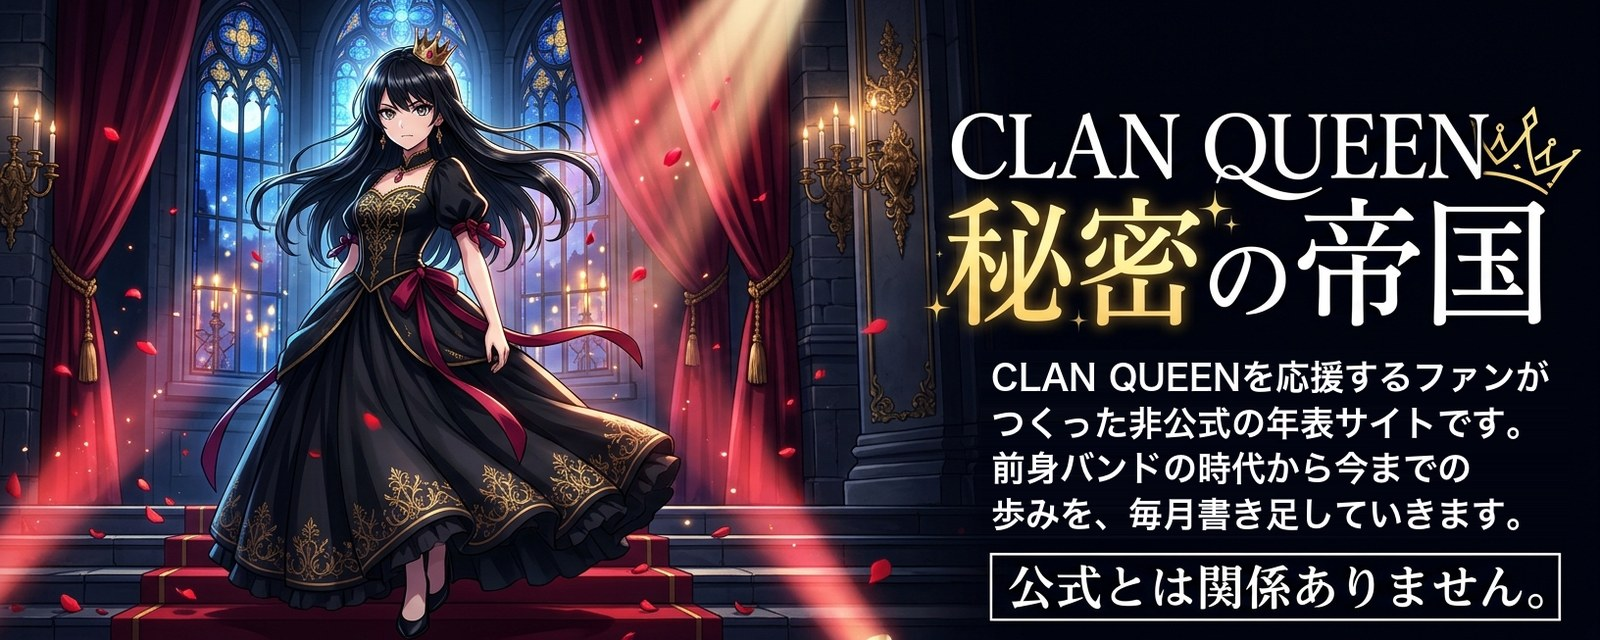
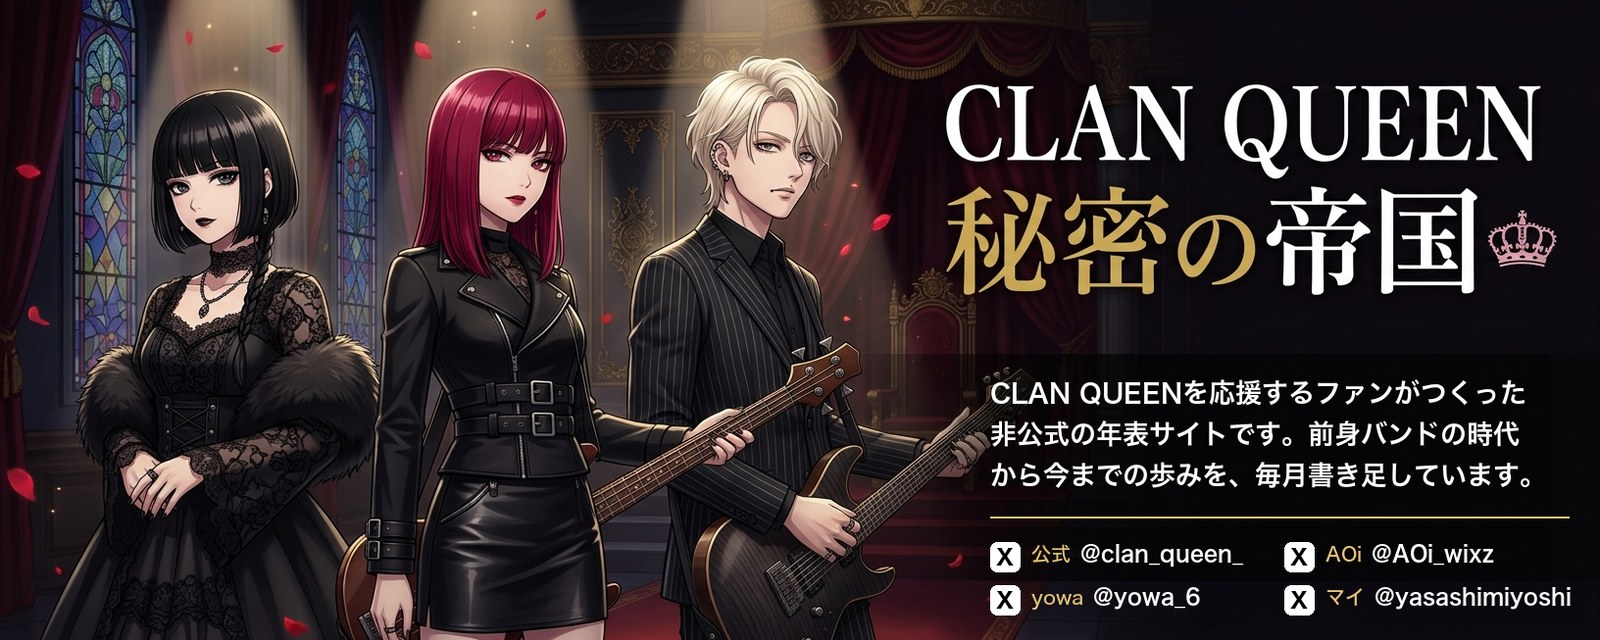
ヘッダーを 3 人のファンアートに作り直し、右下に X アカウント。サイドバーにメンバーの X

diff --git a/docs/about.html b/docs/about.html
@@ -130,7 +130,7 @@ footer{background:var(--hd);color:#c8cde0;font-size:13px;text-align:center;paddi
 <p>「セットリスト」ボタンの中身は、setlist.fm にファンが投稿した記録をもとに、曲名を日本語に直したものです。公式発表ではないため、実際と違う場合があります。曲名が確認できなかったものは、setlist.fm の表記のままにしています。</p>
 <h2>やらないこと</h2><ul>
 <li>広告・アフィリエイトは載せません</li>
-<li>歌詞の引用、公式の写真・イラスト・ロゴの複製・転載はしません。画像は、YouTube の公式動画のサムネイル（YouTube から直接表示し、動画にリンク）と、Gemini でつくったオリジナルのヘッダーイラスト（メンバーご本人や公式ロゴは描いていません）だけです。権利は各権利者に帰属します。削除のご依頼があればすぐに対応します</li>
+<li>歌詞の引用、公式の写真・イラスト・ロゴの複製・転載はしません。画像は、YouTube の公式動画のサムネイル（YouTube から直接表示し、動画にリンク）と、メンバーをイメージして Gemini でつくったファンアートのヘッダー（公式の写真・ロゴは使っていません）だけです。権利は各権利者に帰属します。削除のご依頼があればすぐに対応します</li>
 <li>メンバーの私生活に関することや、うわさ話は書きません</li></ul>
 <h2>見に来てくださって、ありがとうございます</h2>
 <p>音も映像もビジュアルも自分たちの手で形にしてきた AOi さん・yowa さん・マイさん、作品づくりに関わる作り手の皆さん、そして応援を続けるファンの皆さんに、心から感謝しています。この帝国が、あなたの「好き」をもう一度たしかめる場所になればうれしいです。</p>
@@ -155,6 +155,9 @@ footer{background:var(--hd);color:#c8cde0;font-size:13px;text-align:center;paddi
 <li><a href="https://www.clanqueen.jp/" rel="noopener" target="_blank">CLAN QUEEN 公式サイト</a></li>
 <li><a href="https://www.youtube.com/@CLAN_QUEEN" rel="noopener" target="_blank">公式 YouTube チャンネル</a></li>
 <li><a href="https://x.com/clan_queen_" rel="noopener" target="_blank">公式 X（@clan_queen_）</a></li>
+<li><a href="https://x.com/AOi_wixz" rel="noopener" target="_blank">AOi さんの X（@AOi_wixz）</a></li>
+<li><a href="https://x.com/yowa_6" rel="noopener" target="_blank">yowa さんの X（@yowa_6）</a></li>
+<li><a href="https://x.com/yasashimiyoshi" rel="noopener" target="_blank">マイさんの X（@yasashimiyoshi）</a></li>
 <li><a href="https://www.instagram.com/clanqueen/" rel="noopener" target="_blank">公式 Instagram</a></li>
 <li><a href="https://www.tiktok.com/@clan_queen_" rel="noopener" target="_blank">公式 TikTok</a></li>
 <li><a href="https://clanqueen-hfc.com" rel="noopener" target="_blank">ファンクラブ Hell Fire Club</a></li></ul>
@@ -164,5 +167,5 @@ footer{background:var(--hd);color:#c8cde0;font-size:13px;text-align:center;paddi
 </aside></div>
 <footer>CLAN QUEEN 秘密の帝国 は、CLAN QUEEN を応援するファンによる<b>非公式</b>のファンサイトです。CLAN QUEEN・メンバーご本人・所属事務所・レーベルとは関係ありません。<br>
 掲載情報は公開されている報道・公式発表をもとにしています。最新・正確な情報は<a href="https://www.clanqueen.jp/" target="_blank" rel="noopener">公式サイト</a>でご確認ください。<br>
-公式の画像の複製・転載はしていません（トップのヘッダーは AI でつくったオリジナルのイラストです）。動画のサムネイルは YouTube から直接表示し、動画にリンクしています（権利は各権利者に帰属します）。 ／ <a href="about.html">この帝国について・プライバシー</a><br>最終更新: 2026-10-23</footer>
+公式の画像の複製・転載はしていません（トップのヘッダーは、メンバーをイメージして AI でつくったファンアートです）。動画のサムネイルは YouTube から直接表示し、動画にリンクしています（権利は各権利者に帰属します）。 ／ <a href="about.html">この帝国について・プライバシー</a><br>最終更新: 2026-10-23</footer>
 </body></html>

diff --git a/docs/era/empire.html b/docs/era/empire.html
@@ -167,6 +167,9 @@ footer{background:var(--hd);color:#c8cde0;font-size:13px;text-align:center;paddi
 <li><a href="https://www.clanqueen.jp/" rel="noopener" target="_blank">CLAN QUEEN 公式サイト</a></li>
 <li><a href="https://www.youtube.com/@CLAN_QUEEN" rel="noopener" target="_blank">公式 YouTube チャンネル</a></li>
 <li><a href="https://x.com/clan_queen_" rel="noopener" target="_blank">公式 X（@clan_queen_）</a></li>
+<li><a href="https://x.com/AOi_wixz" rel="noopener" target="_blank">AOi さんの X（@AOi_wixz）</a></li>
+<li><a href="https://x.com/yowa_6" rel="noopener" target="_blank">yowa さんの X（@yowa_6）</a></li>
+<li><a href="https://x.com/yasashimiyoshi" rel="noopener" target="_blank">マイさんの X（@yasashimiyoshi）</a></li>
 <li><a href="https://www.instagram.com/clanqueen/" rel="noopener" target="_blank">公式 Instagram</a></li>
 <li><a href="https://www.tiktok.com/@clan_queen_" rel="noopener" target="_blank">公式 TikTok</a></li>
 <li><a href="https://clanqueen-hfc.com" rel="noopener" target="_blank">ファンクラブ Hell Fire Club</a></li></ul>
@@ -176,5 +179,5 @@ footer{background:var(--hd);color:#c8cde0;font-size:13px;text-align:center;paddi
 </aside></div>
 <footer>CLAN QUEEN 秘密の帝国 は、CLAN QUEEN を応援するファンによる<b>非公式</b>のファンサイトです。CLAN QUEEN・メンバーご本人・所属事務所・レーベルとは関係ありません。<br>
 掲載情報は公開されている報道・公式発表をもとにしています。最新・正確な情報は<a href="https://www.clanqueen.jp/" target="_blank" rel="noopener">公式サイト</a>でご確認ください。<br>
-公式の画像の複製・転載はしていません（トップのヘッダーは AI でつくったオリジナルのイラストです）。動画のサムネイルは YouTube から直接表示し、動画にリンクしています（権利は各権利者に帰属します）。 ／ <a href="../about.html">この帝国について・プライバシー</a><br>最終更新: 2026-10-23</footer>
+公式の画像の複製・転載はしていません（トップのヘッダーは、メンバーをイメージして AI でつくったファンアートです）。動画のサムネイルは YouTube から直接表示し、動画にリンクしています（権利は各権利者に帰属します）。 ／ <a href="../about.html">この帝国について・プライバシー</a><br>最終更新: 2026-10-23</footer>
 <script async src="https://platform.twitter.com/widgets.js" charset="utf-8"></script></body></html>

diff --git a/docs/era/ima.html b/docs/era/ima.html
@@ -155,6 +155,9 @@ footer{background:var(--hd);color:#c8cde0;font-size:13px;text-align:center;paddi
 <li><a href="https://www.clanqueen.jp/" rel="noopener" target="_blank">CLAN QUEEN 公式サイト</a></li>
 <li><a href="https://www.youtube.com/@CLAN_QUEEN" rel="noopener" target="_blank">公式 YouTube チャンネル</a></li>
 <li><a href="https://x.com/clan_queen_" rel="noopener" target="_blank">公式 X（@clan_queen_）</a></li>
+<li><a href="https://x.com/AOi_wixz" rel="noopener" target="_blank">AOi さんの X（@AOi_wixz）</a></li>
+<li><a href="https://x.com/yowa_6" rel="noopener" target="_blank">yowa さんの X（@yowa_6）</a></li>
+<li><a href="https://x.com/yasashimiyoshi" rel="noopener" target="_blank">マイさんの X（@yasashimiyoshi）</a></li>
 <li><a href="https://www.instagram.com/clanqueen/" rel="noopener" target="_blank">公式 Instagram</a></li>
 <li><a href="https://www.tiktok.com/@clan_queen_" rel="noopener" target="_blank">公式 TikTok</a></li>
 <li><a href="https://clanqueen-hfc.com" rel="noopener" target="_blank">ファンクラブ Hell Fire Club</a></li></ul>
@@ -164,5 +167,5 @@ footer{background:var(--hd);color:#c8cde0;font-size:13px;text-align:center;paddi
 </aside></div>
 <footer>CLAN QUEEN 秘密の帝国 は、CLAN QUEEN を応援するファンによる<b>非公式</b>のファンサイトです。CLAN QUEEN・メンバーご本人・所属事務所・レーベルとは関係ありません。<br>
 掲載情報は公開されている報道・公式発表をもとにしています。最新・正確な情報は<a href="https://www.clanqueen.jp/" target="_blank" rel="noopener">公式サイト</a>でご確認ください。<br>
-公式の画像の複製・転載はしていません（トップのヘッダーは AI でつくったオリジナルのイラストです）。動画のサムネイルは YouTube から直接表示し、動画にリンクしています（権利は各権利者に帰属します）。 ／ <a href="../about.html">この帝国について・プライバシー</a><br>最終更新: 2026-10-23</footer>
+公式の画像の複製・転載はしていません（トップのヘッダーは、メンバーをイメージして AI でつくったファンアートです）。動画のサムネイルは YouTube から直接表示し、動画にリンクしています（権利は各権利者に帰属します）。 ／ <a href="../about.html">この帝国について・プライバシー</a><br>最終更新: 2026-10-23</footer>
 <script async src="https://platform.twitter.com/widgets.js" charset="utf-8"></script></body></html>

diff --git a/docs/era/toys.html b/docs/era/toys.html
@@ -186,6 +186,9 @@ footer{background:var(--hd);color:#c8cde0;font-size:13px;text-align:center;paddi
 <li><a href="https://www.clanqueen.jp/" rel="noopener" target="_blank">CLAN QUEEN 公式サイト</a></li>
 <li><a href="https://www.youtube.com/@CLAN_QUEEN" rel="noopener" target="_blank">公式 YouTube チャンネル</a></li>
 <li><a href="https://x.com/clan_queen_" rel="noopener" target="_blank">公式 X（@clan_queen_）</a></li>
+<li><a href="https://x.com/AOi_wixz" rel="noopener" target="_blank">AOi さんの X（@AOi_wixz）</a></li>
+<li><a href="https://x.com/yowa_6" rel="noopener" target="_blank">yowa さんの X（@yowa_6）</a></li>
+<li><a href="https://x.com/yasashimiyoshi" rel="noopener" target="_blank">マイさんの X（@yasashimiyoshi）</a></li>
 <li><a href="https://www.instagram.com/clanqueen/" rel="noopener" target="_blank">公式 Instagram</a></li>
 <li><a href="https://www.tiktok.com/@clan_queen_" rel="noopener" target="_blank">公式 TikTok</a></li>
 <li><a href="https://clanqueen-hfc.com" rel="noopener" target="_blank">ファンクラブ Hell Fire Club</a></li></ul>
@@ -195,5 +198,5 @@ footer{background:var(--hd);color:#c8cde0;font-size:13px;text-align:center;paddi
 </aside></div>
 <footer>CLAN QUEEN 秘密の帝国 は、CLAN QUEEN を応援するファンによる<b>非公式</b>のファンサイトです。CLAN QUEEN・メンバーご本人・所属事務所・レーベルとは関係ありません。<br>
 掲載情報は公開されている報道・公式発表をもとにしています。最新・正確な情報は<a href="https://www.clanqueen.jp/" target="_blank" rel="noopener">公式サイト</a>でご確認ください。<br>
-公式の画像の複製・転載はしていません（トップのヘッダーは AI でつくったオリジナルのイラストです）。動画のサムネイルは YouTube から直接表示し、動画にリンクしています（権利は各権利者に帰属します）。 ／ <a href="../about.html">この帝国について・プライバシー</a><br>最終更新: 2026-10-23</footer>
+公式の画像の複製・転載はしていません（トップのヘッダーは、メンバーをイメージして AI でつくったファンアートです）。動画のサムネイルは YouTube から直接表示し、動画にリンクしています（権利は各権利者に帰属します）。 ／ <a href="../about.html">この帝国について・プライバシー</a><br>最終更新: 2026-10-23</footer>
 <script async src="https://platform.twitter.com/widgets.js" charset="utf-8"></script></body></html>

diff --git a/docs/year/2024.html b/docs/year/2024.html
@@ -148,6 +148,9 @@ footer{background:var(--hd);color:#c8cde0;font-size:13px;text-align:center;paddi
 <li><a href="https://www.clanqueen.jp/" rel="noopener" target="_blank">CLAN QUEEN 公式サイト</a></li>
 <li><a href="https://www.youtube.com/@CLAN_QUEEN" rel="noopener" target="_blank">公式 YouTube チャンネル</a></li>
 <li><a href="https://x.com/clan_queen_" rel="noopener" target="_blank">公式 X（@clan_queen_）</a></li>
+<li><a href="https://x.com/AOi_wixz" rel="noopener" target="_blank">AOi さんの X（@AOi_wixz）</a></li>
+<li><a href="https://x.com/yowa_6" rel="noopener" target="_blank">yowa さんの X（@yowa_6）</a></li>
+<li><a href="https://x.com/yasashimiyoshi" rel="noopener" target="_blank">マイさんの X（@yasashimiyoshi）</a></li>
 <li><a href="https://www.instagram.com/clanqueen/" rel="noopener" target="_blank">公式 Instagram</a></li>
 <li><a href="https://www.tiktok.com/@clan_queen_" rel="noopener" target="_blank">公式 TikTok</a></li>
 <li><a href="https://clanqueen-hfc.com" rel="noopener" target="_blank">ファンクラブ Hell Fire Club</a></li></ul>
@@ -157,5 +160,5 @@ footer{background:var(--hd);color:#c8cde0;font-size:13px;text-align:center;paddi
 </aside></div>
 <footer>CLAN QUEEN 秘密の帝国 は、CLAN QUEEN を応援するファンによる<b>非公式</b>のファンサイトです。CLAN QUEEN・メンバーご本人・所属事務所・レーベルとは関係ありません。<br>
 掲載情報は公開されている報道・公式発表をもとにしています。最新・正確な情報は<a href="https://www.clanqueen.jp/" target="_blank" rel="noopener">公式サイト</a>でご確認ください。<br>
-公式の画像の複製・転載はしていません（トップのヘッダーは AI でつくったオリジナルのイラストです）。動画のサムネイルは YouTube から直接表示し、動画にリンクしています（権利は各権利者に帰属します）。 ／ <a href="../about.html">この帝国について・プライバシー</a><br>最終更新: 2026-10-23</footer>
+公式の画像の複製・転載はしていません（トップのヘッダーは、メンバーをイメージして AI でつくったファンアートです）。動画のサムネイルは YouTube から直接表示し、動画にリンクしています（権利は各権利者に帰属します）。 ／ <a href="../about.html">この帝国について・プライバシー</a><br>最終更新: 2026-10-23</footer>
 <script async src="https://platform.twitter.com/widgets.js" charset="utf-8"></script></body></html>

diff --git a/docs/year/2025.html b/docs/year/2025.html
@@ -173,6 +173,9 @@ footer{background:var(--hd);color:#c8cde0;font-size:13px;text-align:center;paddi
 <li><a href="https://www.clanqueen.jp/" rel="noopener" target="_blank">CLAN QUEEN 公式サイト</a></li>
 <li><a href="https://www.youtube.com/@CLAN_QUEEN" rel="noopener" target="_blank">公式 YouTube チャンネル</a></li>
 <li><a href="https://x.com/clan_queen_" rel="noopener" target="_blank">公式 X（@clan_queen_）</a></li>
+<li><a href="https://x.com/AOi_wixz" rel="noopener" target="_blank">AOi さんの X（@AOi_wixz）</a></li>
+<li><a href="https://x.com/yowa_6" rel="noopener" target="_blank">yowa さんの X（@yowa_6）</a></li>
+<li><a href="https://x.com/yasashimiyoshi" rel="noopener" target="_blank">マイさんの X（@yasashimiyoshi）</a></li>
 <li><a href="https://www.instagram.com/clanqueen/" rel="noopener" target="_blank">公式 Instagram</a></li>
 <li><a href="https://www.tiktok.com/@clan_queen_" rel="noopener" target="_blank">公式 TikTok</a></li>
 <li><a href="https://clanqueen-hfc.com" rel="noopener" target="_blank">ファンクラブ Hell Fire Club</a></li></ul>
@@ -182,5 +185,5 @@ footer{background:var(--hd);color:#c8cde0;font-size:13px;text-align:center;paddi
 </aside></div>
 <footer>CLAN QUEEN 秘密の帝国 は、CLAN QUEEN を応援するファンによる<b>非公式</b>のファンサイトです。CLAN QUEEN・メンバーご本人・所属事務所・レーベルとは関係ありません。<br>
 掲載情報は公開されている報道・公式発表をもとにしています。最新・正確な情報は<a href="https://www.clanqueen.jp/" target="_blank" rel="noopener">公式サイト</a>でご確認ください。<br>
-公式の画像の複製・転載はしていません（トップのヘッダーは AI でつくったオリジナルのイラストです）。動画のサムネイルは YouTube から直接表示し、動画にリンクしています（権利は各権利者に帰属します）。 ／ <a href="../about.html">この帝国について・プライバシー</a><br>最終更新: 2026-10-23</footer>
+公式の画像の複製・転載はしていません（トップのヘッダーは、メンバーをイメージして AI でつくったファンアートです）。動画のサムネイルは YouTube から直接表示し、動画にリンクしています（権利は各権利者に帰属します）。 ／ <a href="../about.html">この帝国について・プライバシー</a><br>最終更新: 2026-10-23</footer>
 <script async src="https://platform.twitter.com/widgets.js" charset="utf-8"></script></body></html>

diff --git a/docs/year/2026.html b/docs/year/2026.html
@@ -181,6 +181,9 @@ footer{background:var(--hd);color:#c8cde0;font-size:13px;text-align:center;paddi
 <li><a href="https://www.clanqueen.jp/" rel="noopener" target="_blank">CLAN QUEEN 公式サイト</a></li>
 <li><a href="https://www.youtube.com/@CLAN_QUEEN" rel="noopener" target="_blank">公式 YouTube チャンネル</a></li>
 <li><a href="https://x.com/clan_queen_" rel="noopener" target="_blank">公式 X（@clan_queen_）</a></li>
+<li><a href="https://x.com/AOi_wixz" rel="noopener" target="_blank">AOi さんの X（@AOi_wixz）</a></li>
+<li><a href="https://x.com/yowa_6" rel="noopener" target="_blank">yowa さんの X（@yowa_6）</a></li>
+<li><a href="https://x.com/yasashimiyoshi" rel="noopener" target="_blank">マイさんの X（@yasashimiyoshi）</a></li>
 <li><a href="https://www.instagram.com/clanqueen/" rel="noopener" target="_blank">公式 Instagram</a></li>
 <li><a href="https://www.tiktok.com/@clan_queen_" rel="noopener" target="_blank">公式 TikTok</a></li>
 <li><a href="https://clanqueen-hfc.com" rel="noopener" target="_blank">ファンクラブ Hell Fire Club</a></li></ul>
@@ -190,5 +193,5 @@ footer{background:var(--hd);color:#c8cde0;font-size:13px;text-align:center;paddi
 </aside></div>
 <footer>CLAN QUEEN 秘密の帝国 は、CLAN QUEEN を応援するファンによる<b>非公式</b>のファンサイトです。CLAN QUEEN・メンバーご本人・所属事務所・レーベルとは関係ありません。<br>
 掲載情報は公開されている報道・公式発表をもとにしています。最新・正確な情報は<a href="https://www.clanqueen.jp/" target="_blank" rel="noopener">公式サイト</a>でご確認ください。<br>
-公式の画像の複製・転載はしていません（トップのヘッダーは AI でつくったオリジナルのイラストです）。動画のサムネイルは YouTube から直接表示し、動画にリンクしています（権利は各権利者に帰属します）。 ／ <a href="../about.html">この帝国について・プライバシー</a><br>最終更新: 2026-10-23</footer>
+公式の画像の複製・転載はしていません（トップのヘッダーは、メンバーをイメージして AI でつくったファンアートです）。動画のサムネイルは YouTube から直接表示し、動画にリンクしています（権利は各権利者に帰属します）。 ／ <a href="../about.html">この帝国について・プライバシー</a><br>最終更新: 2026-10-23</footer>
 <script async src="https://platform.twitter.com/widgets.js" charset="utf-8"></script></body></html>

diff --git a/docs/index.html b/docs/index.html
@@ -156,6 +156,9 @@ el.innerHTML=it.map(function(e){var d=new Date(e.date+'T00:00:00');return '<li><
 <li><a href="https://www.clanqueen.jp/" rel="noopener" target="_blank">CLAN QUEEN 公式サイト</a></li>
 <li><a href="https://www.youtube.com/@CLAN_QUEEN" rel="noopener" target="_blank">公式 YouTube チャンネル</a></li>
 <li><a href="https://x.com/clan_queen_" rel="noopener" target="_blank">公式 X（@clan_queen_）</a></li>
+<li><a href="https://x.com/AOi_wixz" rel="noopener" target="_blank">AOi さんの X（@AOi_wixz）</a></li>
+<li><a href="https://x.com/yowa_6" rel="noopener" target="_blank">yowa さんの X（@yowa_6）</a></li>
+<li><a href="https://x.com/yasashimiyoshi" rel="noopener" target="_blank">マイさんの X（@yasashimiyoshi）</a></li>
 <li><a href="https://www.instagram.com/clanqueen/" rel="noopener" target="_blank">公式 Instagram</a></li>
 <li><a href="https://www.tiktok.com/@clan_queen_" rel="noopener" target="_blank">公式 TikTok</a></li>
 <li><a href="https://clanqueen-hfc.com" rel="noopener" target="_blank">ファンクラブ Hell Fire Club</a></li></ul>
@@ -165,5 +168,5 @@ el.innerHTML=it.map(function(e){var d=new Date(e.date+'T00:00:00');return '<li><
 </aside></div>
 <footer>CLAN QUEEN 秘密の帝国 は、CLAN QUEEN を応援するファンによる<b>非公式</b>のファンサイトです。CLAN QUEEN・メンバーご本人・所属事務所・レーベルとは関係ありません。<br>
 掲載情報は公開されている報道・公式発表をもとにしています。最新・正確な情報は<a href="https://www.clanqueen.jp/" target="_blank" rel="noopener">公式サイト</a>でご確認ください。<br>
-公式の画像の複製・転載はしていません（トップのヘッダーは AI でつくったオリジナルのイラストです）。動画のサムネイルは YouTube から直接表示し、動画にリンクしています（権利は各権利者に帰属します）。 ／ <a href="about.html">この帝国について・プライバシー</a><br>最終更新: 2026-10-23</footer>
+公式の画像の複製・転載はしていません（トップのヘッダーは、メンバーをイメージして AI でつくったファンアートです）。動画のサムネイルは YouTube から直接表示し、動画にリンクしています（権利は各権利者に帰属します）。 ／ <a href="about.html">この帝国について・プライバシー</a><br>最終更新: 2026-10-23</footer>
 <script async src="https://platform.twitter.com/widgets.js" charset="utf-8"></script></body></html>

diff --git a/docs/live.html b/docs/live.html
@@ -218,6 +218,9 @@ footer{background:var(--hd);color:#c8cde0;font-size:13px;text-align:center;paddi
 <li><a href="https://www.clanqueen.jp/" rel="noopener" target="_blank">CLAN QUEEN 公式サイト</a></li>
 <li><a href="https://www.youtube.com/@CLAN_QUEEN" rel="noopener" target="_blank">公式 YouTube チャンネル</a></li>
 <li><a href="https://x.com/clan_queen_" rel="noopener" target="_blank">公式 X（@clan_queen_）</a></li>
+<li><a href="https://x.com/AOi_wixz" rel="noopener" target="_blank">AOi さんの X（@AOi_wixz）</a></li>
+<li><a href="https://x.com/yowa_6" rel="noopener" target="_blank">yowa さんの X（@yowa_6）</a></li>
+<li><a href="https://x.com/yasashimiyoshi" rel="noopener" target="_blank">マイさんの X（@yasashimiyoshi）</a></li>
 <li><a href="https://www.instagram.com/clanqueen/" rel="noopener" target="_blank">公式 Instagram</a></li>
 <li><a href="https://www.tiktok.com/@clan_queen_" rel="noopener" target="_blank">公式 TikTok</a></li>
 <li><a href="https://clanqueen-hfc.com" rel="noopener" target="_blank">ファンクラブ Hell Fire Club</a></li></ul>
@@ -227,5 +230,5 @@ footer{background:var(--hd);color:#c8cde0;font-size:13px;text-align:center;paddi
 </aside></div>
 <footer>CLAN QUEEN 秘密の帝国 は、CLAN QUEEN を応援するファンによる<b>非公式</b>のファンサイトです。CLAN QUEEN・メンバーご本人・所属事務所・レーベルとは関係ありません。<br>
 掲載情報は公開されている報道・公式発表をもとにしています。最新・正確な情報は<a href="https://www.clanqueen.jp/" target="_blank" rel="noopener">公式サイト</a>でご確認ください。<br>
-公式の画像の複製・転載はしていません（トップのヘッダーは AI でつくったオリジナルのイラストです）。動画のサムネイルは YouTube から直接表示し、動画にリンクしています（権利は各権利者に帰属します）。 ／ <a href="about.html">この帝国について・プライバシー</a><br>最終更新: 2026-10-23</footer>
+公式の画像の複製・転載はしていません（トップのヘッダーは、メンバーをイメージして AI でつくったファンアートです）。動画のサムネイルは YouTube から直接表示し、動画にリンクしています（権利は各権利者に帰属します）。 ／ <a href="about.html">この帝国について・プライバシー</a><br>最終更新: 2026-10-23</footer>
 <script async src="https://platform.twitter.com/widgets.js" charset="utf-8"></script></body></html>

diff --git a/docs/magazines.html b/docs/magazines.html
@@ -143,6 +143,9 @@ function go(){window.twttr&&twttr.widgets?twttr.widgets.load(d):setTimeout(go,30
 <li><a href="https://www.clanqueen.jp/" rel="noopener" target="_blank">CLAN QUEEN 公式サイト</a></li>
 <li><a href="https://www.youtube.com/@CLAN_QUEEN" rel="noopener" target="_blank">公式 YouTube チャンネル</a></li>
 <li><a href="https://x.com/clan_queen_" rel="noopener" target="_blank">公式 X（@clan_queen_）</a></li>
+<li><a href="https://x.com/AOi_wixz" rel="noopener" target="_blank">AOi さんの X（@AOi_wixz）</a></li>
+<li><a href="https://x.com/yowa_6" rel="noopener" target="_blank">yowa さんの X（@yowa_6）</a></li>
+<li><a href="https://x.com/yasashimiyoshi" rel="noopener" target="_blank">マイさんの X（@yasashimiyoshi）</a></li>
 <li><a href="https://www.instagram.com/clanqueen/" rel="noopener" target="_blank">公式 Instagram</a></li>
 <li><a href="https://www.tiktok.com/@clan_queen_" rel="noopener" target="_blank">公式 TikTok</a></li>
 <li><a href="https://clanqueen-hfc.com" rel="noopener" target="_blank">ファンクラブ Hell Fire Club</a></li></ul>
@@ -152,5 +155,5 @@ function go(){window.twttr&&twttr.widgets?twttr.widgets.load(d):setTimeout(go,30
 </aside></div>
 <footer>CLAN QUEEN 秘密の帝国 は、CLAN QUEEN を応援するファンによる<b>非公式</b>のファンサイトです。CLAN QUEEN・メンバーご本人・所属事務所・レーベルとは関係ありません。<br>
 掲載情報は公開されている報道・公式発表をもとにしています。最新・正確な情報は<a href="https://www.clanqueen.jp/" target="_blank" rel="noopener">公式サイト</a>でご確認ください。<br>
-公式の画像の複製・転載はしていません（トップのヘッダーは AI でつくったオリジナルのイラストです）。動画のサムネイルは YouTube から直接表示し、動画にリンクしています（権利は各権利者に帰属します）。 ／ <a href="about.html">この帝国について・プライバシー</a><br>最終更新: 2026-10-23</footer>
+公式の画像の複製・転載はしていません（トップのヘッダーは、メンバーをイメージして AI でつくったファンアートです）。動画のサムネイルは YouTube から直接表示し、動画にリンクしています（権利は各権利者に帰属します）。 ／ <a href="about.html">この帝国について・プライバシー</a><br>最終更新: 2026-10-23</footer>
 <script async src="https://platform.twitter.com/widgets.js" charset="utf-8"></script></body></html>

diff --git a/docs/release.html b/docs/release.html
@@ -180,6 +180,9 @@ footer{background:var(--hd);color:#c8cde0;font-size:13px;text-align:center;paddi
 <li><a href="https://www.clanqueen.jp/" rel="noopener" target="_blank">CLAN QUEEN 公式サイト</a></li>
 <li><a href="https://www.youtube.com/@CLAN_QUEEN" rel="noopener" target="_blank">公式 YouTube チャンネル</a></li>
 <li><a href="https://x.com/clan_queen_" rel="noopener" target="_blank">公式 X（@clan_queen_）</a></li>
+<li><a href="https://x.com/AOi_wixz" rel="noopener" target="_blank">AOi さんの X（@AOi_wixz）</a></li>
+<li><a href="https://x.com/yowa_6" rel="noopener" target="_blank">yowa さんの X（@yowa_6）</a></li>
+<li><a href="https://x.com/yasashimiyoshi" rel="noopener" target="_blank">マイさんの X（@yasashimiyoshi）</a></li>
 <li><a href="https://www.instagram.com/clanqueen/" rel="noopener" target="_blank">公式 Instagram</a></li>
 <li><a href="https://www.tiktok.com/@clan_queen_" rel="noopener" target="_blank">公式 TikTok</a></li>
 <li><a href="https://clanqueen-hfc.com" rel="noopener" target="_blank">ファンクラブ Hell Fire Club</a></li></ul>
@@ -189,5 +192,5 @@ footer{background:var(--hd);color:#c8cde0;font-size:13px;text-align:center;paddi
 </aside></div>
 <footer>CLAN QUEEN 秘密の帝国 は、CLAN QUEEN を応援するファンによる<b>非公式</b>のファンサイトです。CLAN QUEEN・メンバーご本人・所属事務所・レーベルとは関係ありません。<br>
 掲載情報は公開されている報道・公式発表をもとにしています。最新・正確な情報は<a href="https://www.clanqueen.jp/" target="_blank" rel="noopener">公式サイト</a>でご確認ください。<br>
-公式の画像の複製・転載はしていません（トップのヘッダーは AI でつくったオリジナルのイラストです）。動画のサムネイルは YouTube から直接表示し、動画にリンクしています（権利は各権利者に帰属します）。 ／ <a href="about.html">この帝国について・プライバシー</a><br>最終更新: 2026-10-23</footer>
+公式の画像の複製・転載はしていません（トップのヘッダーは、メンバーをイメージして AI でつくったファンアートです）。動画のサムネイルは YouTube から直接表示し、動画にリンクしています（権利は各権利者に帰属します）。 ／ <a href="about.html">この帝国について・プライバシー</a><br>最終更新: 2026-10-23</footer>
 <script async src="https://platform.twitter.com/widgets.js" charset="utf-8"></script></body></html>

diff --git a/docs/tieup.html b/docs/tieup.html
@@ -147,6 +147,9 @@ footer{background:var(--hd);color:#c8cde0;font-size:13px;text-align:center;paddi
 <li><a href="https://www.clanqueen.jp/" rel="noopener" target="_blank">CLAN QUEEN 公式サイト</a></li>
 <li><a href="https://www.youtube.com/@CLAN_QUEEN" rel="noopener" target="_blank">公式 YouTube チャンネル</a></li>
 <li><a href="https://x.com/clan_queen_" rel="noopener" target="_blank">公式 X（@clan_queen_）</a></li>
+<li><a href="https://x.com/AOi_wixz" rel="noopener" target="_blank">AOi さんの X（@AOi_wixz）</a></li>
+<li><a href="https://x.com/yowa_6" rel="noopener" target="_blank">yowa さんの X（@yowa_6）</a></li>
+<li><a href="https://x.com/yasashimiyoshi" rel="noopener" target="_blank">マイさんの X（@yasashimiyoshi）</a></li>
 <li><a href="https://www.instagram.com/clanqueen/" rel="noopener" target="_blank">公式 Instagram</a></li>
 <li><a href="https://www.tiktok.com/@clan_queen_" rel="noopener" target="_blank">公式 TikTok</a></li>
 <li><a href="https://clanqueen-hfc.com" rel="noopener" target="_blank">ファンクラブ Hell Fire Club</a></li></ul>
@@ -156,5 +159,5 @@ footer{background:var(--hd);color:#c8cde0;font-size:13px;text-align:center;paddi
 </aside></div>
 <footer>CLAN QUEEN 秘密の帝国 は、CLAN QUEEN を応援するファンによる<b>非公式</b>のファンサイトです。CLAN QUEEN・メンバーご本人・所属事務所・レーベルとは関係ありません。<br>
 掲載情報は公開されている報道・公式発表をもとにしています。最新・正確な情報は<a href="https://www.clanqueen.jp/" target="_blank" rel="noopener">公式サイト</a>でご確認ください。<br>
-公式の画像の複製・転載はしていません（トップのヘッダーは AI でつくったオリジナルのイラストです）。動画のサムネイルは YouTube から直接表示し、動画にリンクしています（権利は各権利者に帰属します）。 ／ <a href="about.html">この帝国について・プライバシー</a><br>最終更新: 2026-10-23</footer>
+公式の画像の複製・転載はしていません（トップのヘッダーは、メンバーをイメージして AI でつくったファンアートです）。動画のサムネイルは YouTube から直接表示し、動画にリンクしています（権利は各権利者に帰属します）。 ／ <a href="about.html">この帝国について・プライバシー</a><br>最終更新: 2026-10-23</footer>
 <script async src="https://platform.twitter.com/widgets.js" charset="utf-8"></script></body></html>
